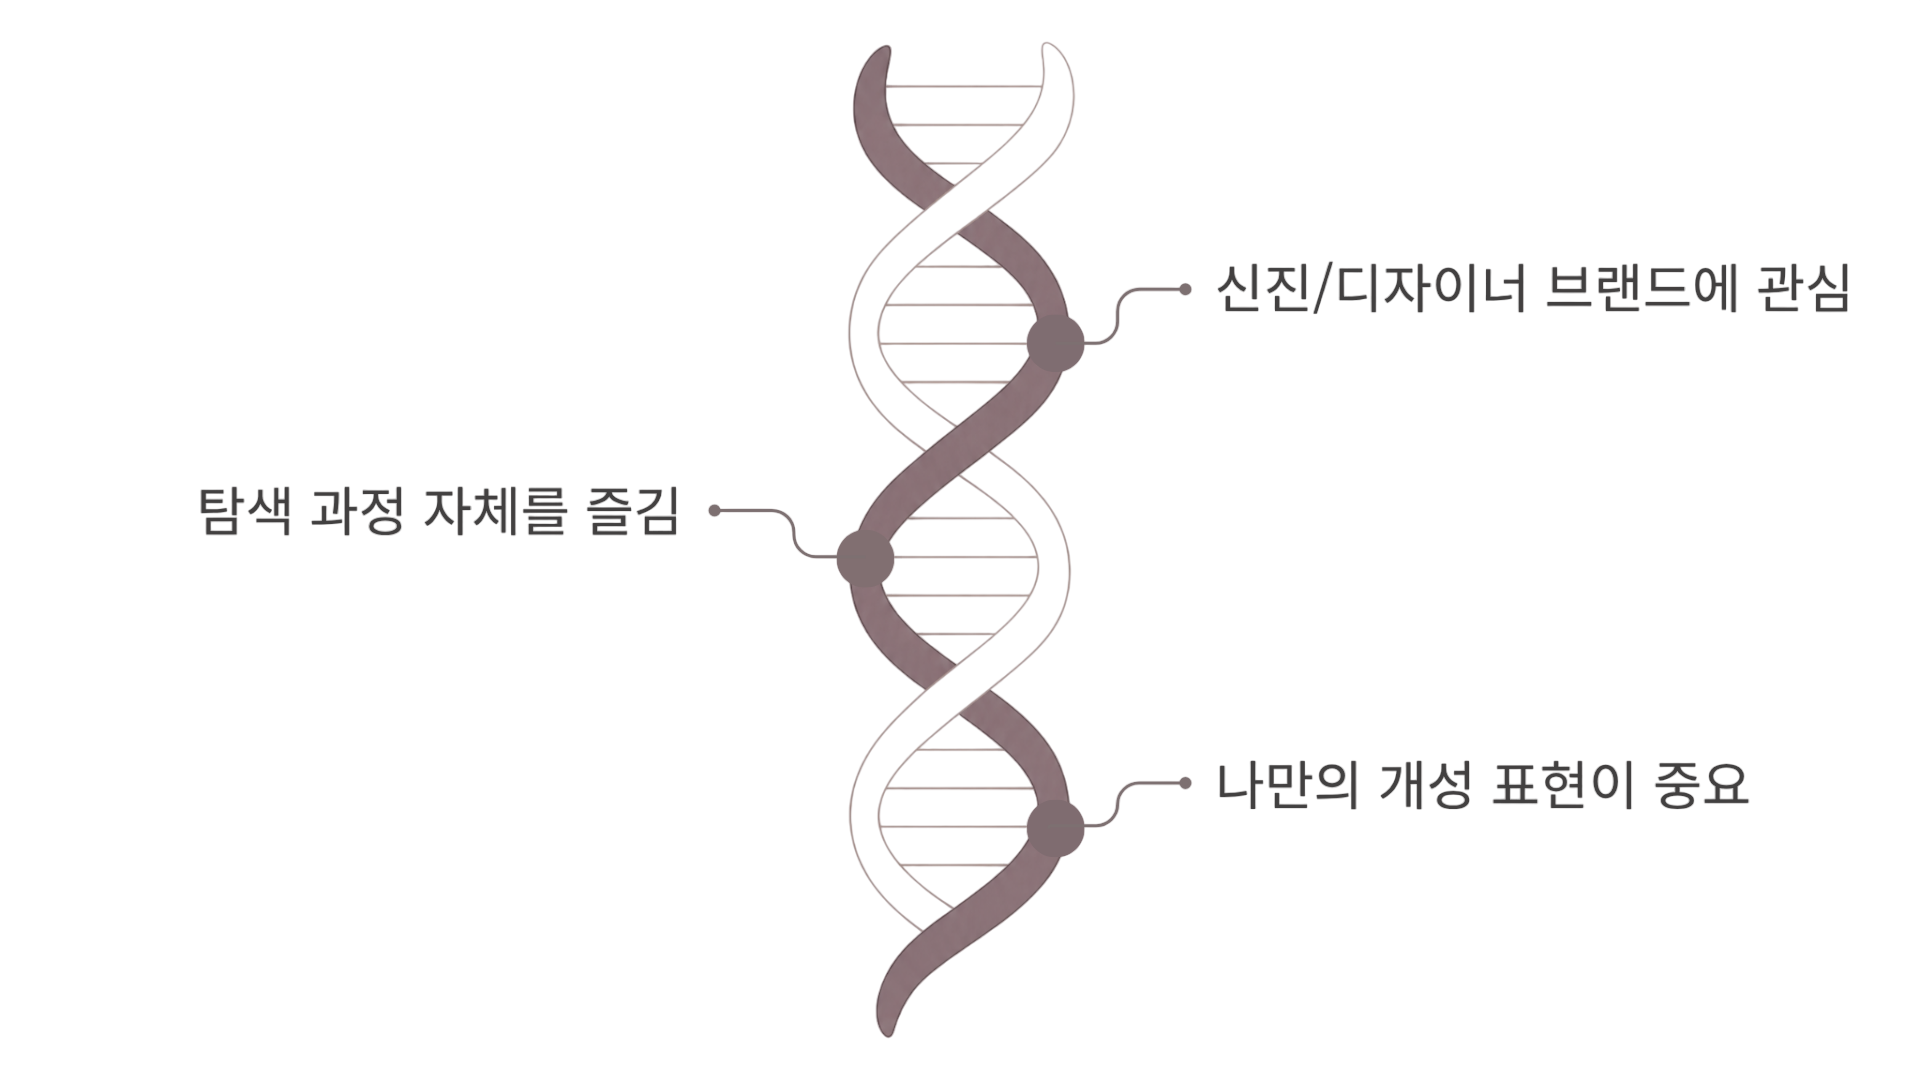
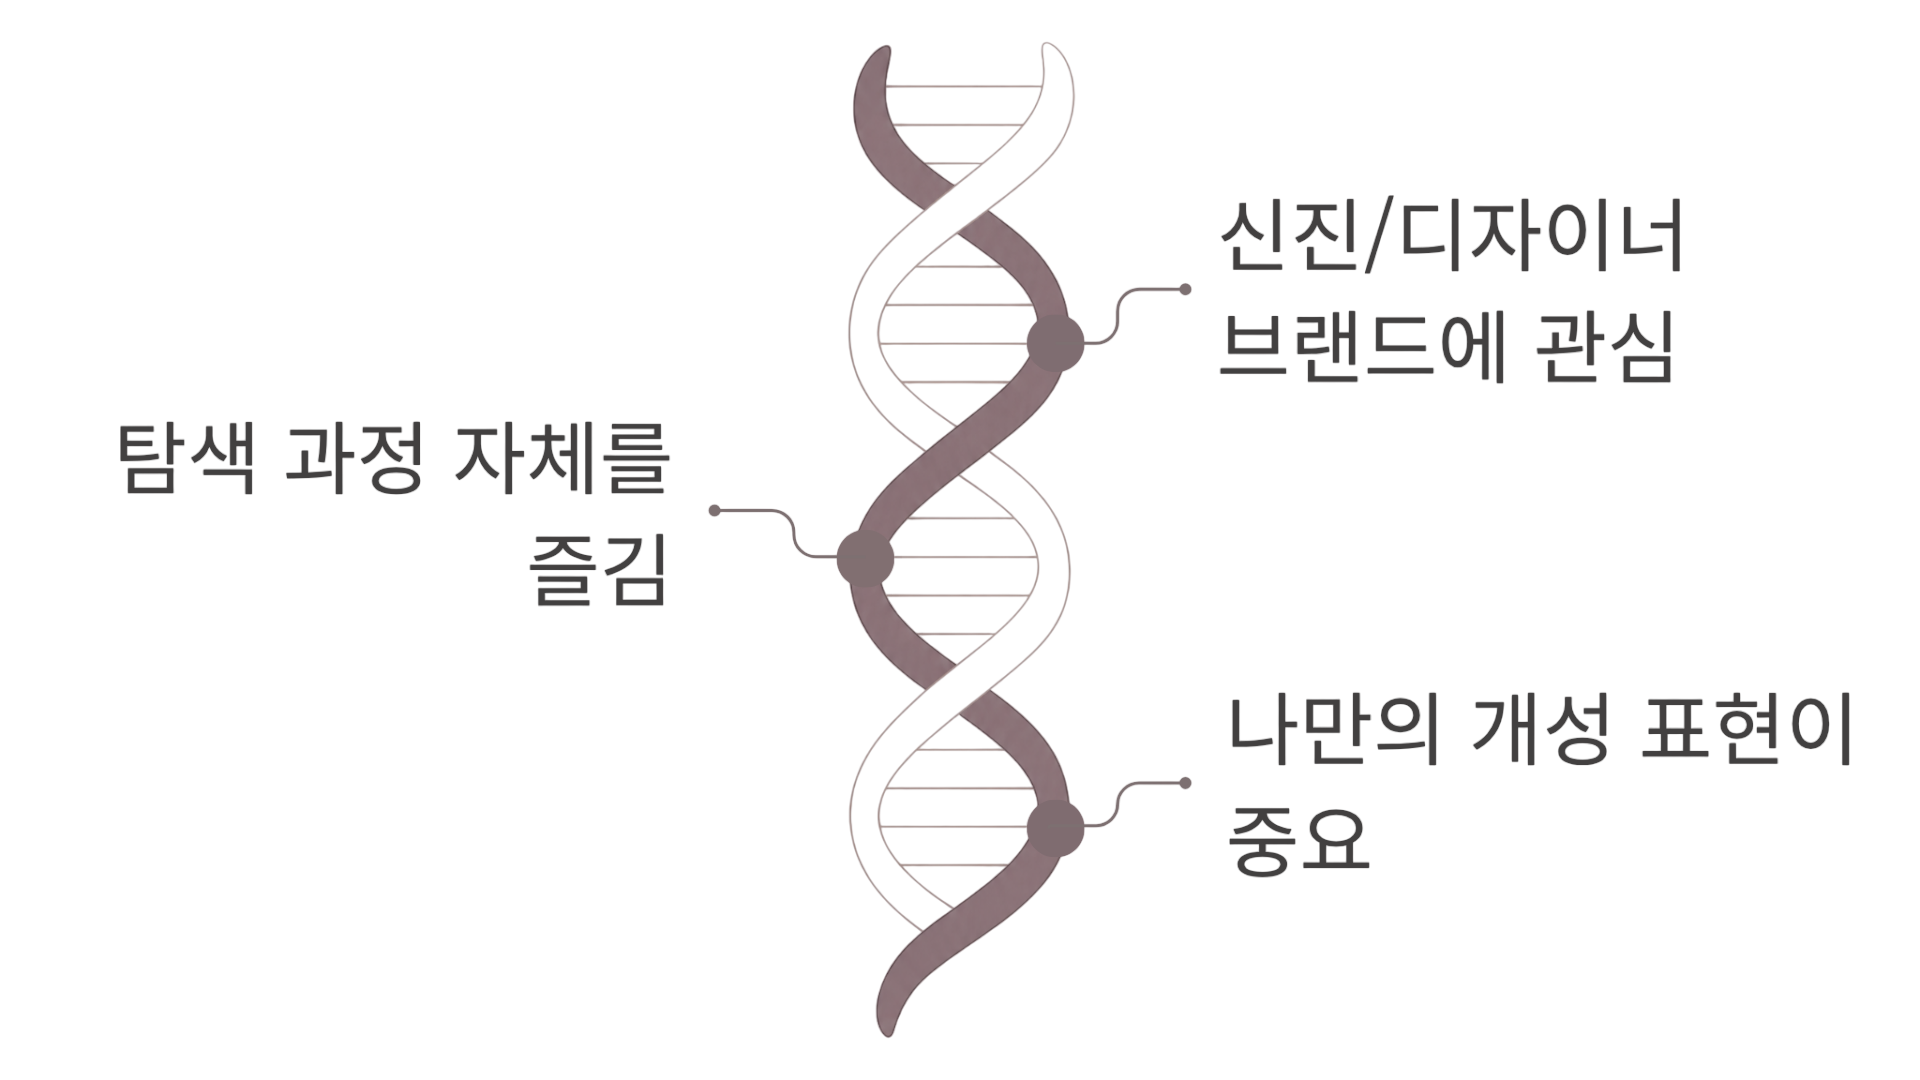
이미지 수정

Changed region(s): [[0.625, 0.1833, 0.9688, 0.3667], [0.625, 0.6417, 0.9688, 0.825], [0.0625, 0.3667, 0.375, 0.5806]]

diff --git a/index.html b/index.html
@@ -126,7 +126,7 @@
       border-radius: 3px;
       background: var(--accent);
       color: var(--white);
-      font-size: 1.05rem;
+      font-size: 1.3rem;
       font-weight: 700;
       letter-spacing: -0.01em;
       text-decoration: none;
@@ -424,9 +424,9 @@
 
     .result-definition {
       max-width: 340px;
-      margin: 10px auto 0;
+      margin: 0 auto 0;
       color: var(--muted);
-      font-size: 1.2rem;
+      font-size: 1.4rem;
       line-height: 1.8;
       letter-spacing: -0.035em;
       white-space: pre-line;
@@ -657,7 +657,7 @@
       max-width: 350px;
       margin: 0 auto 22px;
       color: var(--muted);
-      font-size: 1rem;
+      font-size: 1.2rem;
       line-height: 1.7;
       letter-spacing: -0.035em;
       text-align: center;
